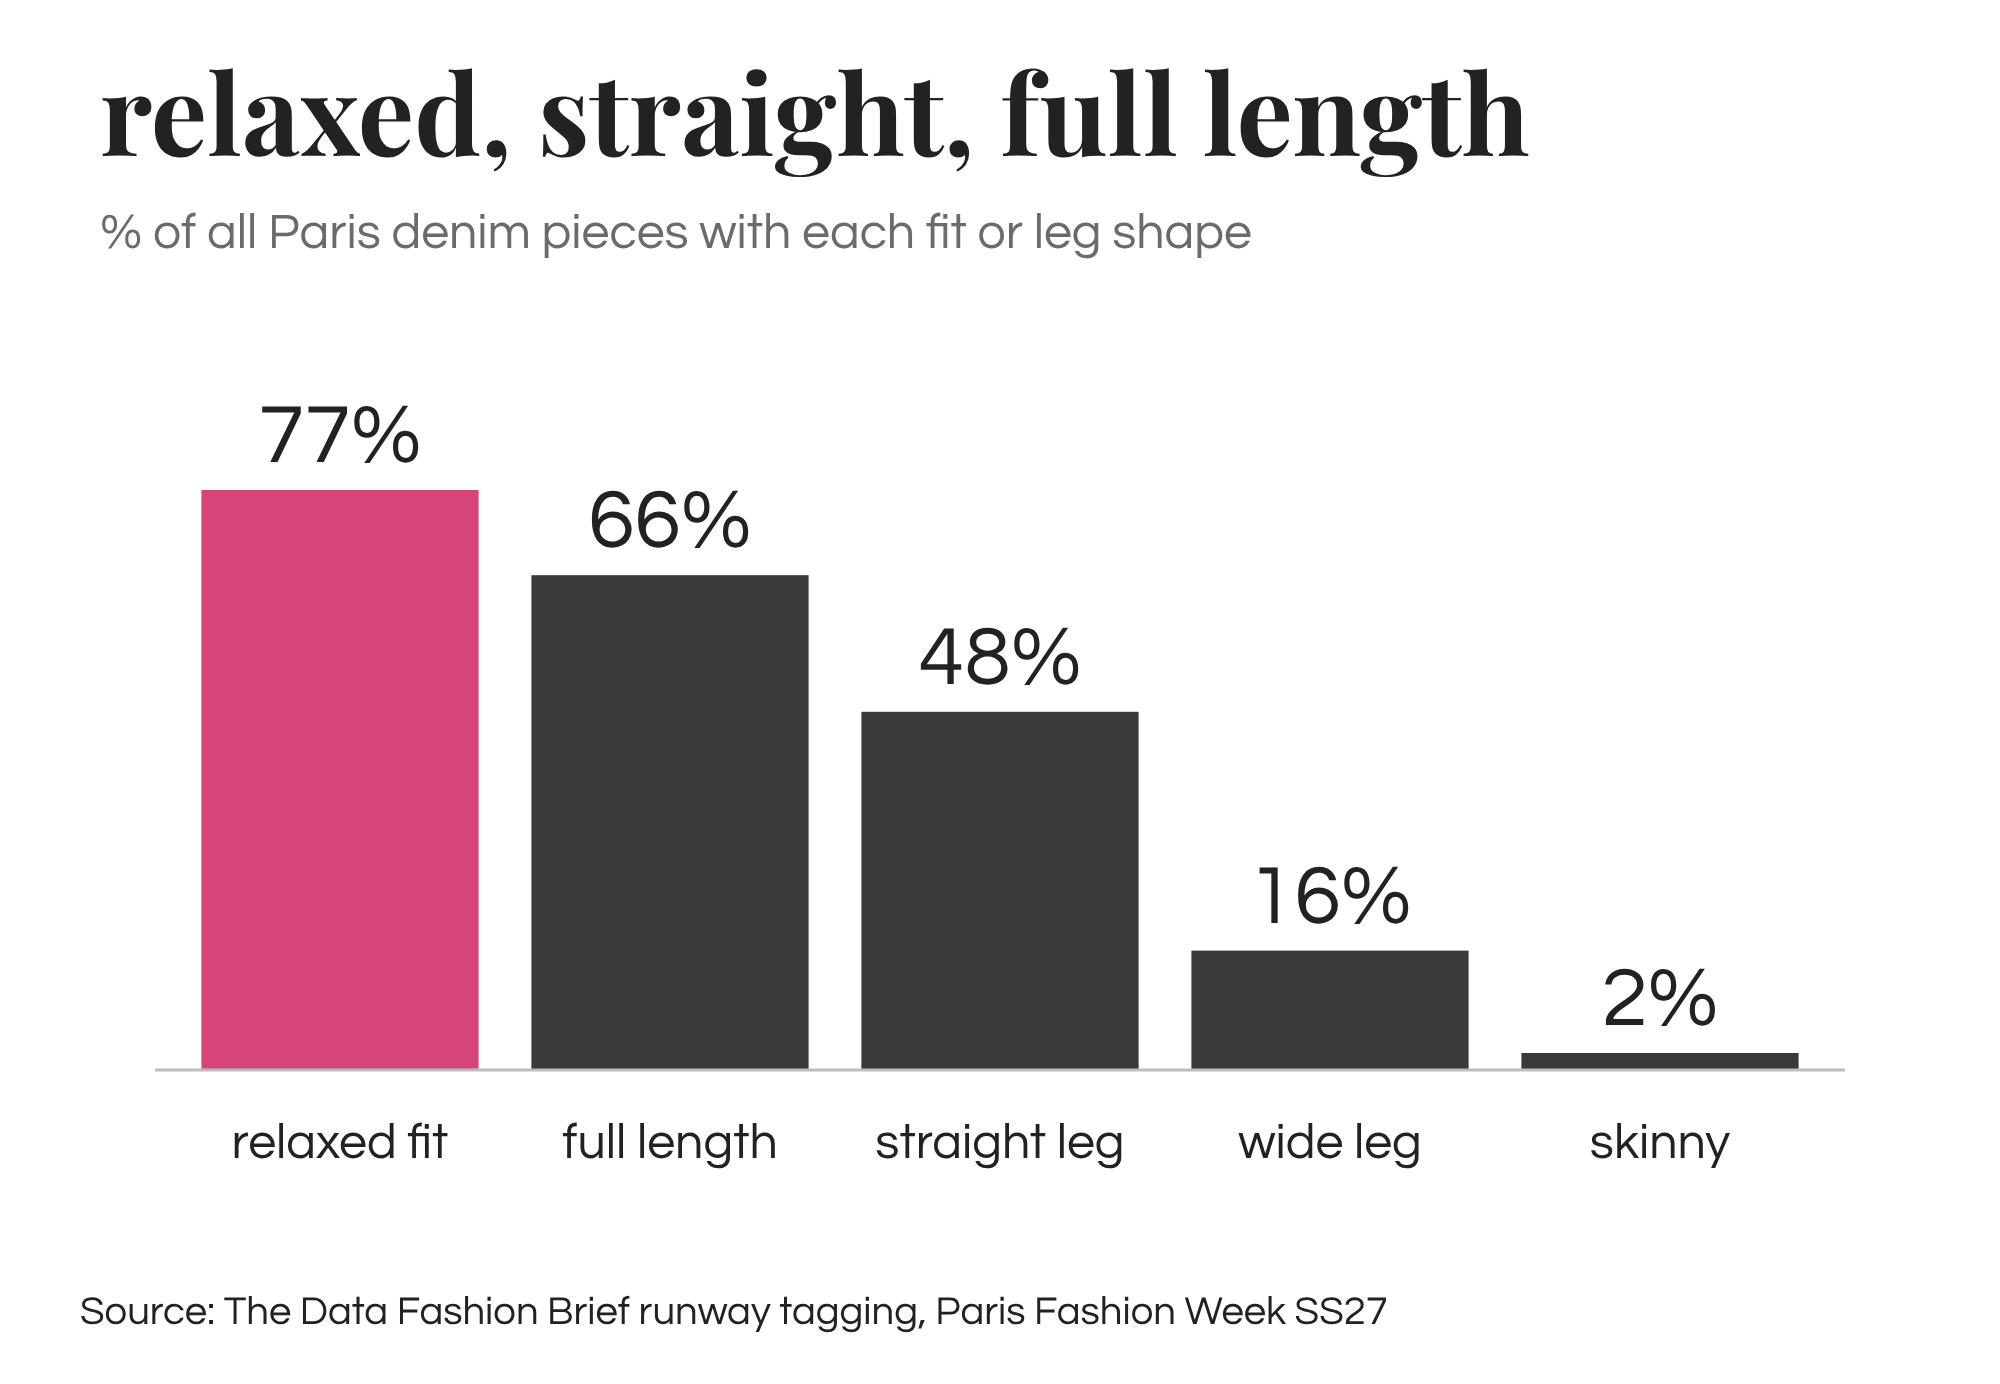
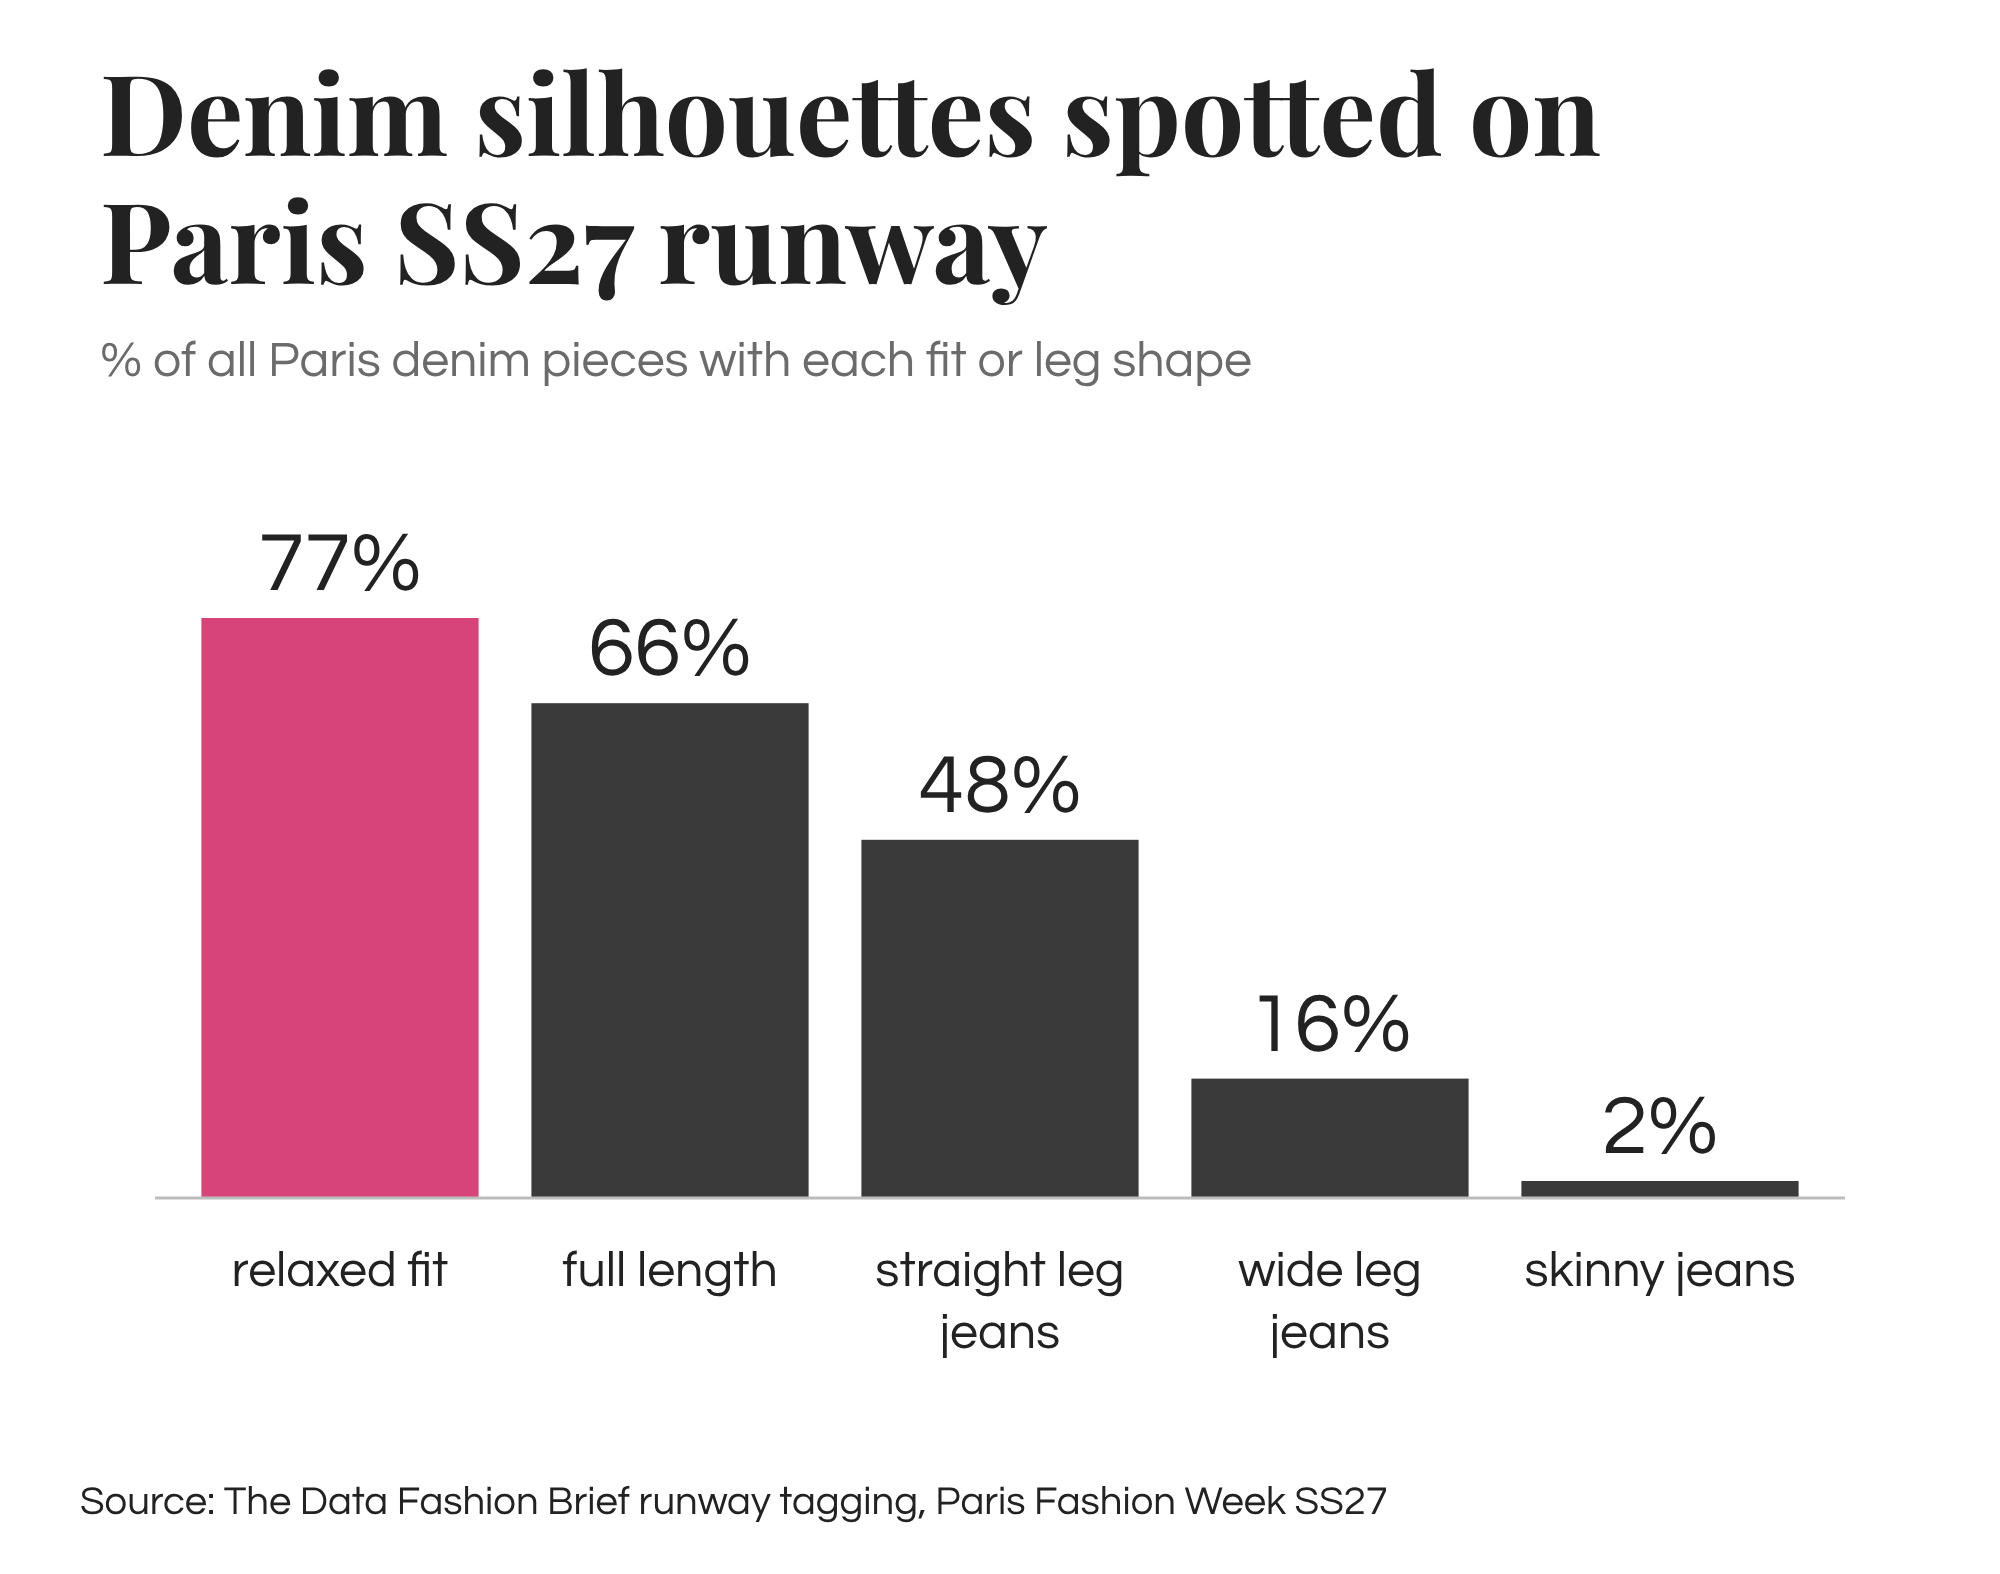
Denim chart 04: new title, jeans labels, long titles wrap to two lines
Claude-Session: https://claude.ai/code/session_01KzegPm7qszLVG4GeMMggt9

diff --git a/drafts/fashionunited-denim-charts/build_charts.py b/drafts/fashionunited-denim-charts/build_charts.py
@@ -28,11 +28,20 @@ def wrap(label, n=14):
     lines.append(cur)
     return lines
 
+def title_lines(title, W):
+    # Playfair bold at 56px runs about 29px per character; wrap onto two lines rather than shrink
+    per_line = int((W - 100) / 29)
+    return wrap(title, per_line)
+
 def head(W, h, title, subtitle):
-    return [f'<svg xmlns="http://www.w3.org/2000/svg" viewBox="0 0 {W} {h}" width="{W}" height="{h}">',
-            f'<rect width="{W}" height="{h}" fill="#FFFFFF"/>',
-            f'<text x="50" y="78" font-family="{SERIF}" font-weight="700" font-size="56" fill="{INK}">{html.escape(title)}</text>',
-            f'<text x="50" y="124" font-family="{SANS}" font-size="25" fill="{MUTED}">{html.escape(subtitle)}</text>']
+    lines = title_lines(title, W)
+    dy = 64 * (len(lines) - 1)
+    out = [f'<svg xmlns="http://www.w3.org/2000/svg" viewBox="0 0 {W} {h}" width="{W}" height="{h}">',
+           f'<rect width="{W}" height="{h}" fill="#FFFFFF"/>']
+    for i, line in enumerate(lines):
+        out.append(f'<text x="50" y="{78 + 64*i}" font-family="{SERIF}" font-weight="700" font-size="56" fill="{INK}">{html.escape(line)}</text>')
+    out.append(f'<text x="50" y="{124 + dy}" font-family="{SANS}" font-size="25" fill="{MUTED}">{html.escape(subtitle)}</text>')
+    return out
 
 def bar_chart(name, title, subtitle, items, source, fmt=lambda v: f'{half_up(v)}%', highlight=(0,)):
     """items: (label, value); values may be negative (bars drop below the baseline).
@@ -40,6 +49,7 @@ def bar_chart(name, title, subtitle, items, source, fmt=lambda v: f'{half_up(v)}
     n = len(items)
     W = max(1000, 100 + n * 150)
     top, plot_h, left, right = 175, 360, 50, 50
+    top += 64 * (len(title_lines(title, W)) - 1)
     slot = min((W - left - right) / n, 165)
     x0 = (W - slot * n) / 2
     bw = min(150, slot * 0.84)
@@ -179,10 +189,10 @@ charts.append(bar_chart('03-denim-by-piece', 'the jean does the work',
     [('trousers', 100 * 33 / 44), ('jackets', 100 * 4 / 44), ('skirts', 100 * 4 / 44)], PARIS))
 
 # 4. Fit and leg, Paris: share of the 44 denim pieces
-charts.append(bar_chart('04-denim-fit', 'relaxed, straight, full length',
+charts.append(bar_chart('04-denim-fit', 'Denim silhouettes spotted on Paris SS27 runway',
     '% of all Paris denim pieces with each fit or leg shape',
-    [('relaxed fit', 100 * 34 / 44), ('full length', 100 * 29 / 44), ('straight leg', 100 * 21 / 44),
-     ('wide leg', 100 * 7 / 44), ('skinny', 100 * 1 / 44)], PARIS))
+    [('relaxed fit', 100 * 34 / 44), ('full length', 100 * 29 / 44), ('straight leg jeans', 100 * 21 / 44),
+     ('wide leg jeans', 100 * 7 / 44), ('skinny jeans', 100 * 1 / 44)], PARIS))
 
 # 5. Wash, Paris: share of the 44 denim pieces
 charts.append(bar_chart('05-denim-by-wash', 'mid-wash leads',
